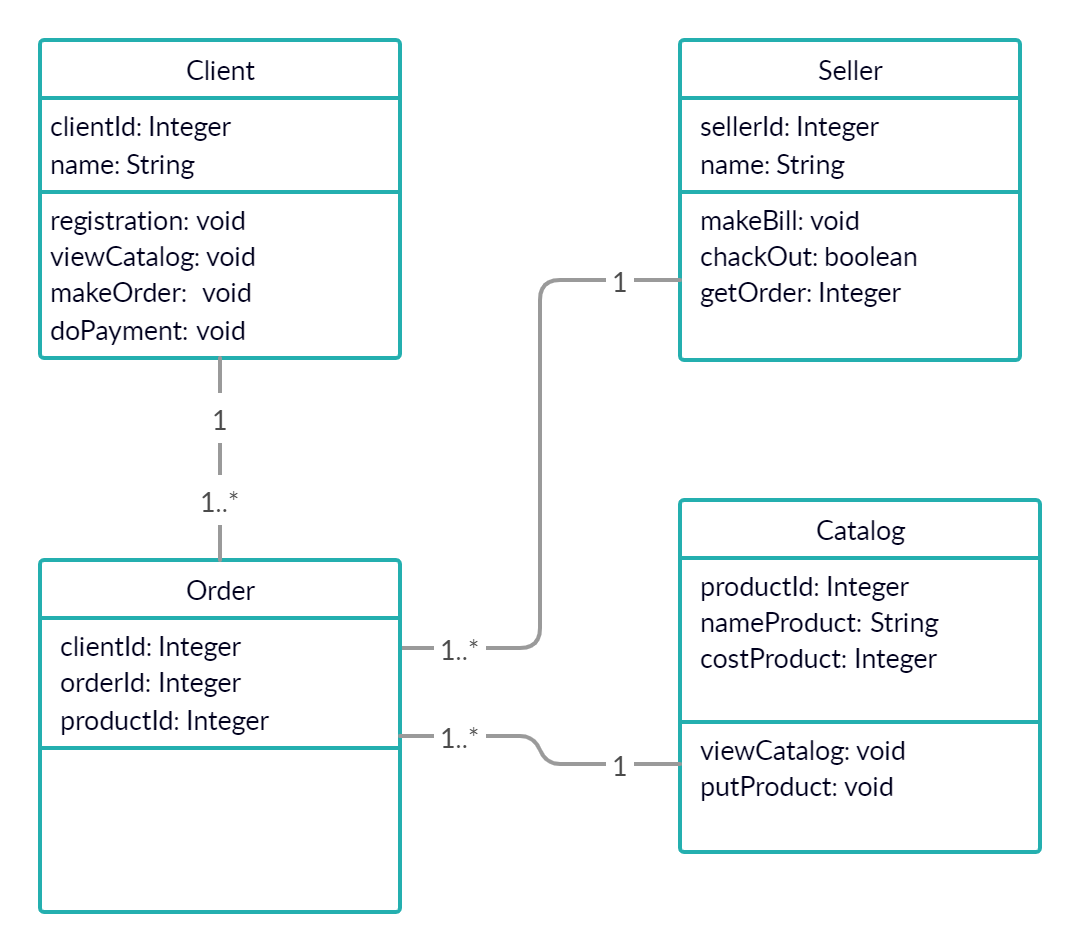
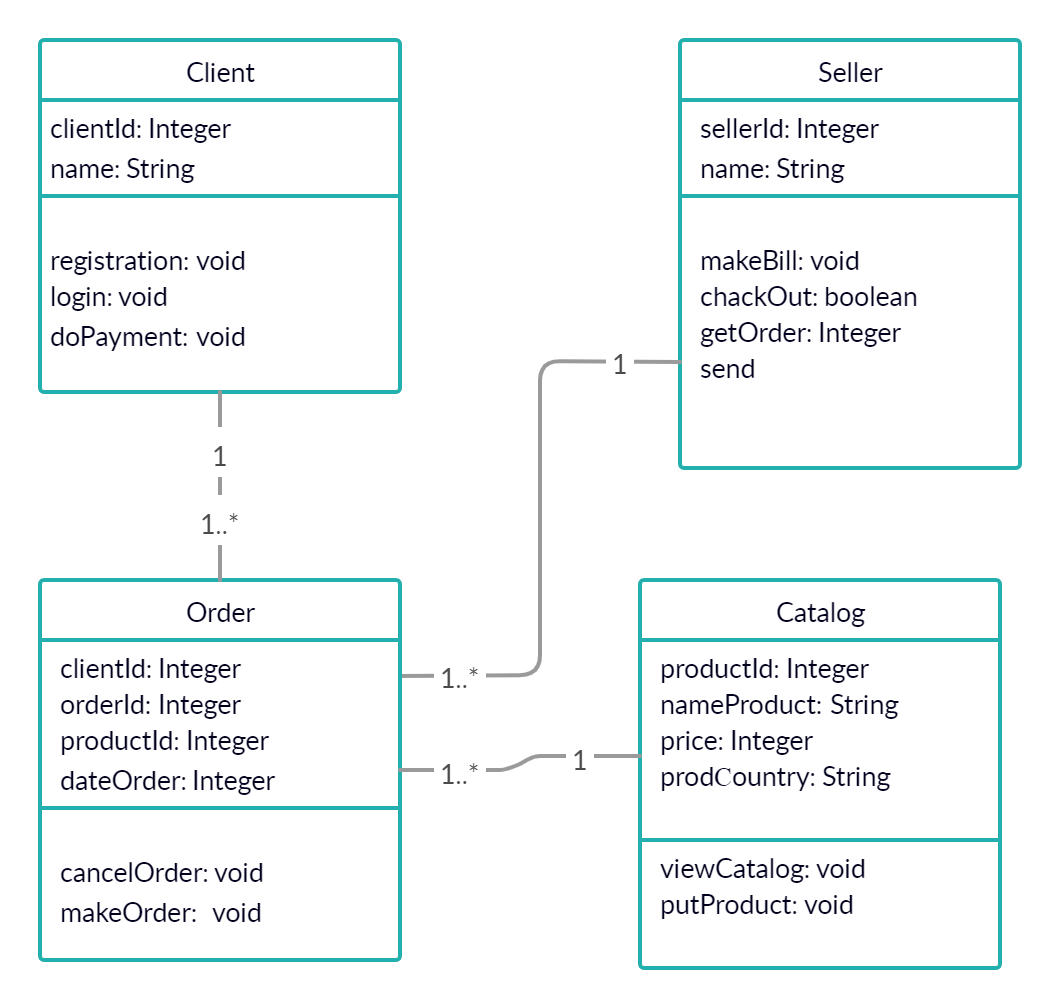
Готовое решение 15

diff --git a/src/project1/lesson15/Main.java b/src/project1/lesson15/Main.java
@@ -1,27 +1,77 @@
 package src.project1.lesson15;
 
-import src.project1.lesson15.catalog.DBCatalog;
+import src.project1.lesson15.catalog.DBbuilder;
 
 import java.sql.*;
 
 public class Main {
     public static void main(String[] args) throws SQLException {
+        Integer[] localArgs = new Integer[]{1, 2, 3};
         try (Connection connection = DriverManager.getConnection(
                 "jdbc:postgresql://localhost:5432/customers",
                 "root",
                 "admin1982")) {
 
-            DBCatalog.renewDatabase(connection);
+            DBbuilder.renewDatabase(connection);
             try (Statement statement = connection.createStatement();
                  ResultSet resultSet = statement.executeQuery("SELECT * FROM catalog")) {
                 while (resultSet.next()) {
-                    System.out.print("id=" + resultSet.getInt("productId"));
-                    System.out.print("; model=" + resultSet.getString("nameProduct"));
+                    System.out.print("productId=" + resultSet.getInt("productId"));
+                    System.out.print("; nameProduct=" + resultSet.getString("nameProduct"));
                     System.out.print("; price=" + resultSet.getInt("price"));
-                    System.out.println("; manufacturer=" + resultSet.getString("prodСountry"));
+                    System.out.println("; prodСountry=" + resultSet.getString("prodСountry"));
+                }
+            }
+            try (PreparedStatement preparedStatement = connection.prepareStatement(
+                    "SELECT * FROM catalog WHERE nameProduct = ? and price < ?")) {
+                preparedStatement.setString(1, "P1");
+                preparedStatement.setFloat(2, 1000);
+
+                try (ResultSet resultSet = preparedStatement.executeQuery()) {
+                    while (resultSet.next()) {
+                        System.out.print("productId=" + resultSet.getInt("productId"));
+                        System.out.print("; nameProduct=" + resultSet.getString("nameProduct"));
+                        System.out.print("; price=" + resultSet.getInt("price"));
+                        System.out.println("; prodСountry=" + resultSet.getString(
+                                "prodСountry"));
+                    }
                 }
             }
 
+            try (PreparedStatement preparedStatement = connection.prepareStatement(
+                    "update catalog set price=5000 where productId = ?")) {
+                for (Integer arg : localArgs) {
+                    preparedStatement.setInt(1, arg);
+                    preparedStatement.addBatch();
+                }
+                preparedStatement.executeBatch();
+            }
+            //Предусмотреть использование savepoint при выполнении логики из нескольких запросов.
+            try (Statement statement = connection.createStatement()) {
+                connection.setAutoCommit(false);
+                Savepoint savepoint = connection.setSavepoint();
+
+                for (int i = 0; i < 4; i++) {
+                    statement.executeUpdate(
+                            "INSERT INTO catalog (nameProduct, price, prodСountry)\n"
+                                    + "VALUES\n"
+                                    + "   ('G" + i + "', " + i*100 + ", 'Russia');"
+                    );
+                }
+                for (int i = 4; i < 8; i++) {
+                    statement.executeUpdate(
+                            "INSERT INTO catalog (nameProduct, price, prodСountry)\n"
+                                    + "VALUES\n"
+                                    + "   ('G" + i + "', " + i + ", 'SAMSUNG');"
+                    );
+                }
+                connection.rollback(savepoint);
+                connection.commit();
+
+            } catch (SQLException e) {
+                connection.rollback();
+                e.printStackTrace();
+            }
         }
     }
 }

diff --git a/src/project1/lesson15/catalog/DBbuilder.java b/src/project1/lesson15/catalog/DBbuilder.java
@@ -4,9 +4,9 @@ import java.sql.Connection;
 import java.sql.SQLException;
 import java.sql.Statement;
 
-public class DBCatalog {
+public class DBbuilder {
 
-    private DBCatalog() {
+    private DBbuilder() {
     }
 
     public static void renewDatabase(Connection connection) throws SQLException {
@@ -29,6 +29,29 @@ public class DBCatalog {
                     + "   ('FRY1', 1002, 'China'),\n"
                     + "   ('OGO', 10000, 'China');"
                     + "\n"
+                    + "DROP TABLE IF EXISTS clients ;"
+                    + "\n"
+                    + "CREATE TABLE clients (\n"
+                    + "    clientId bigserial primary key,\n"
+                    + "    name varchar(100) NOT NULL);"
+                    + "\n"
+                    + "INSERT INTO clients (name)\n"
+                    + "VALUES\n"
+                    + "('Andrey');"
+                    + "\n"
+                    + "DROP TABLE IF EXISTS orderNew ;"
+                    + "\n"
+                    + "CREATE TABLE orderNew (\n"
+                    + "    clientId bigserial primary key,\n"
+                    + "    orderId integer NOT NULL,\n"
+                    + "    productId integer NOT NULL,\n"
+                    + "    dateOrder integer NOT NULL);"
+                    + "\n"
+                    + "INSERT INTO orderNew (orderId, productId, dateOrder)\n"
+                    + "VALUES\n"
+                    + "   (100, 1, 20200608);"
+                    + "\n"
+
                     + ";");
 //                    + "DROP FUNCTION IF EXISTS multiply(integer);"
 //                    + "\n"
@@ -37,7 +60,6 @@ public class DBCatalog {
 //                    + "    RETURN a * 2;\n"
 //                    + "END\n"
 //                    + "$$ LANGUAGE 'plpgsql';");
-
 
 
         }
